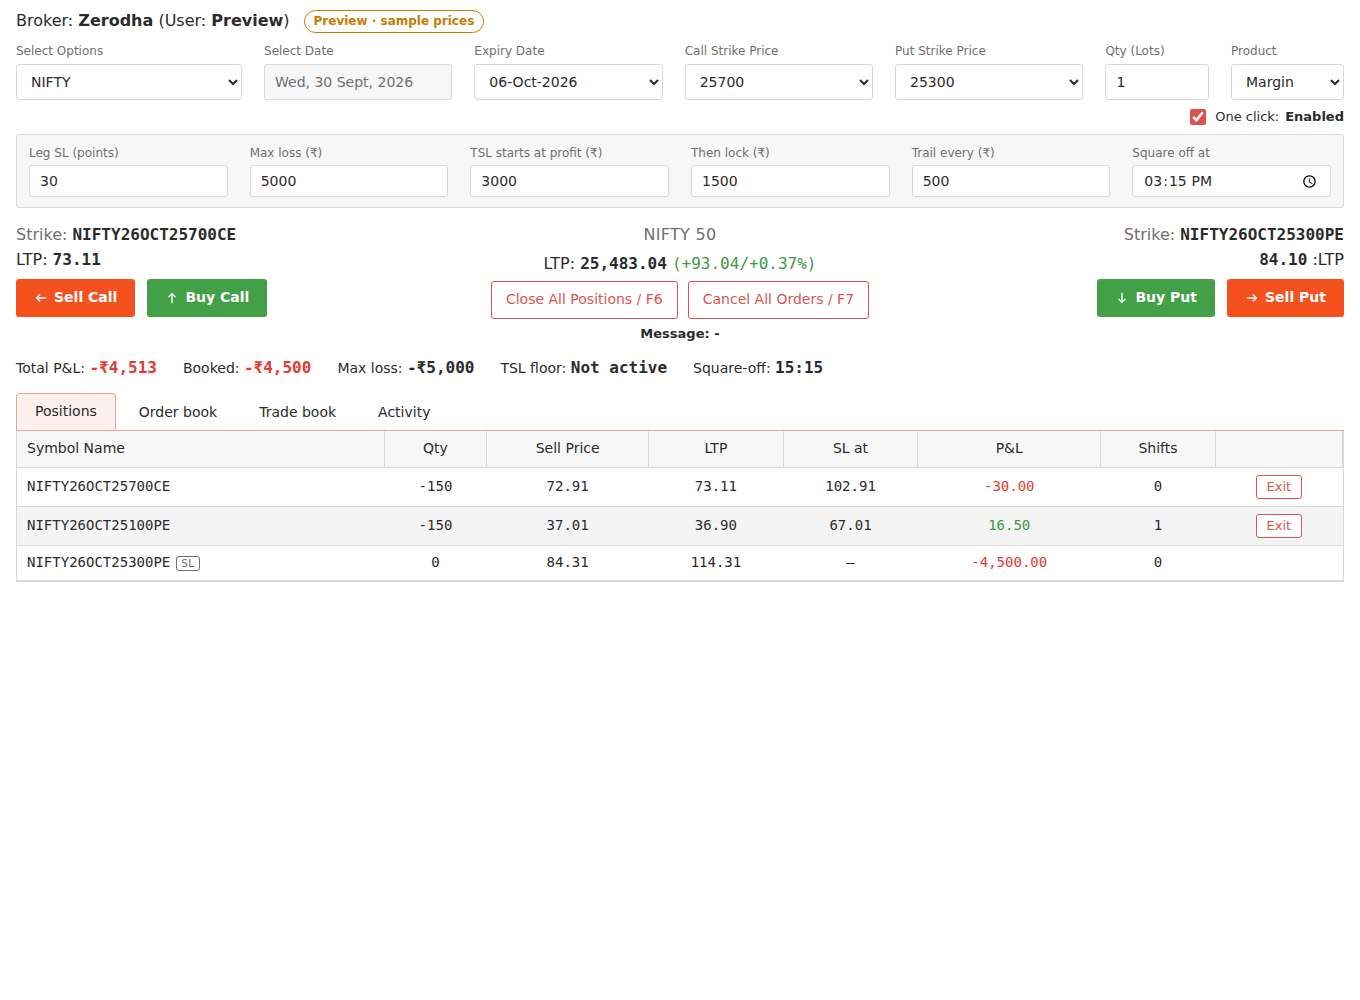
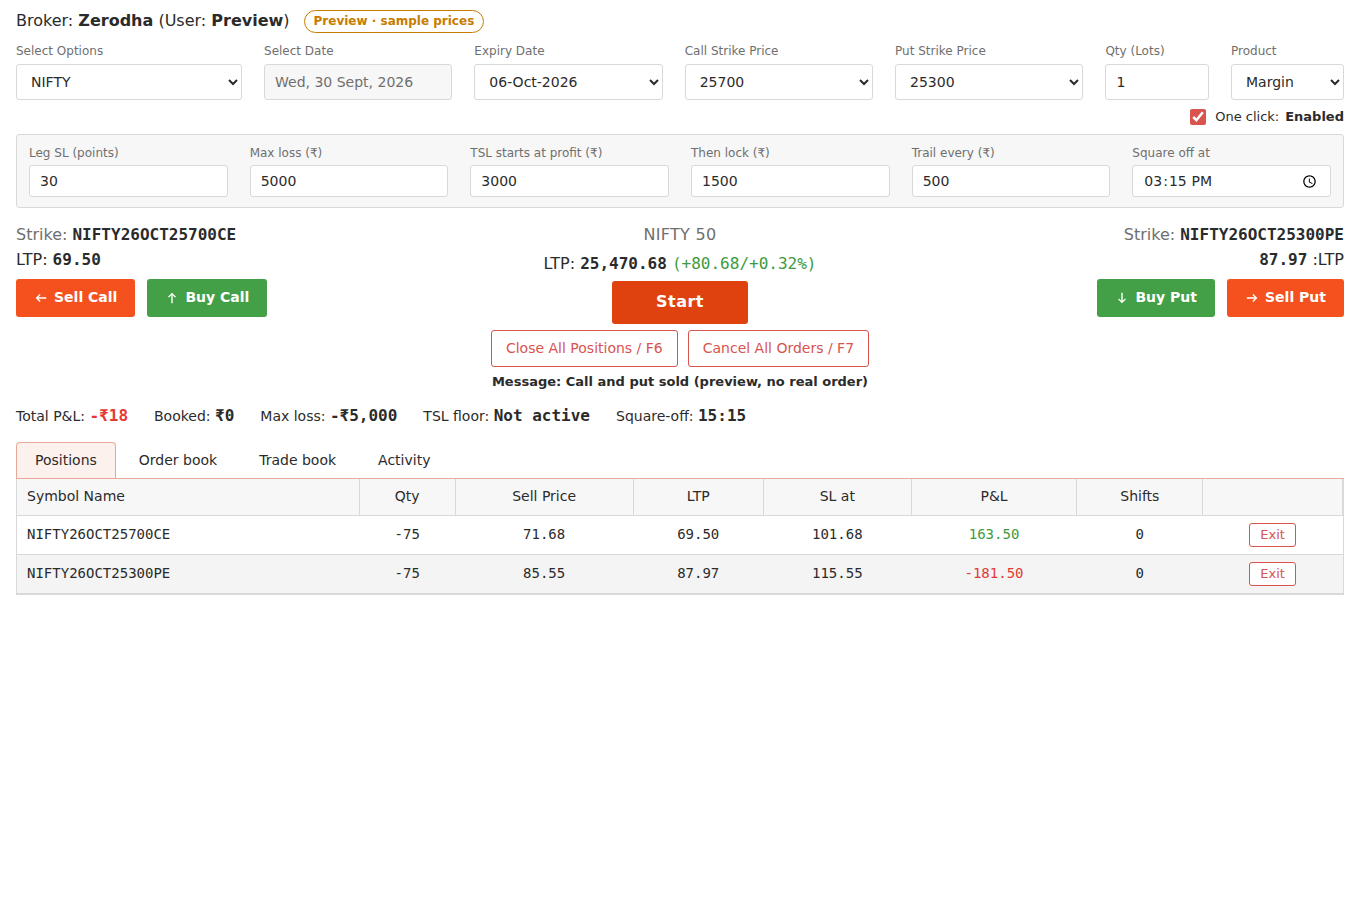
Add Start button that sells the selected call and put together
Both strikes are checked before any order, so a bad strike never leaves
a single leg sold.

Claude-Session: https://claude.ai/code/session_01ME9hcg2Eyey3AhrZwX4625

diff --git a/app/static/index.html b/app/static/index.html
@@ -96,6 +96,8 @@ button { cursor: pointer; }
 .center .idx { font-size: 16px; }
 .center .idx b { font-weight: 700; }
 .outline-btns { display: flex; gap: 10px; flex-wrap: wrap; justify-content: center; }
+.start { border: 0; border-radius: 3px; background: var(--sell); color: #fff; font-weight: 700; font-size: 16px; letter-spacing: .03em; padding: 10px 44px; }
+.start:hover { background: var(--sell-hover); }
 .obtn { background: var(--bg); border: 1px solid var(--outline); color: var(--outline); border-radius: 3px; padding: 8px 14px; }
 .obtn:hover { background: var(--tab-bg); }
 .message { font-size: 13px; font-weight: 600; }
@@ -175,6 +177,7 @@ td.l, th.l { text-align: left; }
   <div class="center">
     <div class="name" id="idx-name">NIFTY 50</div>
     <div class="idx">LTP: <b class="num" id="idx-ltp">–</b> <span class="num" id="idx-chg"></span></div>
+    <button type="button" class="start" id="start">Start</button>
     <div class="outline-btns">
       <button type="button" class="obtn" id="close-all">Close All Positions / F6</button>
       <button type="button" class="obtn" id="cancel-all">Cancel All Orders / F7</button>
@@ -329,7 +332,7 @@ td.l, th.l { text-align: left; }
     } else {
       rows = (t?.log || []).slice().reverse().map((e) => `<tr><td class="num">${e.time}</td><td class="l ${e.level === "error" ? "log-err" : ""}">${e.message}</td></tr>`).join("");
     }
-    const empty = { positions: "No positions yet. Pick strikes above and press Sell Call or Sell Put.", orders: "No orders today.", trades: "No trades today.", log: "Orders and rule triggers will appear here." }[tab];
+    const empty = { positions: "No positions yet. Pick the call and put strikes above and press Start.", orders: "No orders today.", trades: "No trades today.", log: "Orders and rule triggers will appear here." }[tab];
     $("tbody").innerHTML = rows || `<tr class="empty"><td colspan="${HEADS[tab].length}">${empty}</td></tr>`;
   }
 
@@ -360,6 +363,7 @@ td.l, th.l { text-align: left; }
 
   // ---------- actions ----------
   const ACTIONS = {
+    "start": { label: () => `Sell ${$("lots").value} lot(s) ${symbol("CE")} and ${symbol("PE")} at market`, run: () => source.startTrade(Number($("ce-strike").value), Number($("pe-strike").value)) },
     "sell-ce": { label: () => `Sell ${$("lots").value} lot(s) ${symbol("CE")} at market`, run: () => source.sell("CE", Number($("ce-strike").value)) },
     "sell-pe": { label: () => `Sell ${$("lots").value} lot(s) ${symbol("PE")} at market`, run: () => source.sell("PE", Number($("pe-strike").value)) },
     "buy-ce": { label: () => "Buy back all open short calls at market", run: () => source.buy("CE") },
@@ -373,7 +377,7 @@ td.l, th.l { text-align: left; }
     catch (err) { setMessage(err.message, true); }
   }
   function request(id) {
-    if (id.startsWith("sell")) {
+    if (id.startsWith("sell") || id === "start") {
       const r = risk();
       if (!(r.lots >= 1)) return setMessage("Enter Qty (Lots) of at least 1.", true);
       if (!(r.leg_sl_points > 0)) return setMessage("Enter a leg SL in points.", true);
@@ -425,6 +429,7 @@ td.l, th.l { text-align: left; }
     watch() { return this.json("/api/watch", { method: "POST", body: JSON.stringify({ underlying: view.underlying, expiry: view.expiry }) }); },
     async after(trade) { view.trade = trade; renderTrade(); this.refreshBooks(); },
     async sell(type, strike) { await this.after(await this.json("/api/sell", { method: "POST", body: JSON.stringify({ ...risk(), type, strike }) })); return "Order executed"; },
+    async startTrade(ce_strike, pe_strike) { await this.after(await this.json("/api/start", { method: "POST", body: JSON.stringify({ ...risk(), ce_strike, pe_strike }) })); return "Call and put sold"; },
     async buy(type) { await this.after(await this.json("/api/buy", { method: "POST", body: JSON.stringify({ type }) })); return "Bought back"; },
     async closeAll() { await this.after(await this.json("/api/close-all", { method: "POST" })); return "All positions closed"; },
     async cancelAll() { const r = await this.json("/api/cancel-all", { method: "POST" }); this.refreshBooks(); return `${r.cancelled} pending order(s) cancelled`; },
@@ -547,6 +552,11 @@ td.l, th.l { text-align: left; }
         if (trade && trade.status === "running" && trade.params.underlying !== view.underlying) throw new Error(`A ${trade.params.underlying} trade is running. Close it before switching.`);
         ensureTrade(); sellLeg(type, strike, risk().lots * cfg[view.underlying].lot, 0); renderTrade();
         return "Order executed (preview, no real order)";
+      },
+      async startTrade(ce, pe) {
+        await this.sell("CE", ce);
+        await this.sell("PE", pe);
+        return "Call and put sold (preview, no real order)";
       },
       async buy(type) {
         const legs = trade?.legs.filter((l) => l.status === "open" && l.type === type) || [];

diff --git a/app/engine.py b/app/engine.py
@@ -129,6 +129,17 @@ class Engine:
             self._save()
             return self.trade
 
+    def start(self, p: TradeParams, ce_strike: float, pe_strike: float) -> Trade:
+        """Start button: sell the selected call and put together."""
+        with self.lock:
+            # Check both strikes before placing anything, so a typo can't leave a single leg sold.
+            contracts = self.chain_contracts(p.underlying, p.expiry) if p.underlying in UNDERLYINGS else {}
+            for strike, typ in ((ce_strike, "CE"), (pe_strike, "PE")):
+                if (float(strike), typ) not in contracts:
+                    raise ValueError(f"{p.underlying} {strike:g} {typ} is not listed for {p.expiry}.")
+            self.sell(p, "CE", ce_strike)
+            return self.sell(p, "PE", pe_strike)
+
     def buy(self, typ: str) -> None:
         """Buy Call / Buy Put: buy back every open short leg of that type."""
         with self.lock:

diff --git a/tests/test_api.py b/tests/test_api.py
@@ -27,3 +27,12 @@ def test_order_book(tmp_path, monkeypatch):
     client = TestClient(create_app(FakeBroker()))
     assert client.get("/api/orders").json() == []
     assert client.get("/api/trades").json() == []
+
+
+def test_start_button(tmp_path, monkeypatch):
+    monkeypatch.setattr(settings, "state_file", str(tmp_path / "s.json"))
+    client = TestClient(create_app(FakeBroker()))
+    r = client.post("/api/start", json={"underlying": "NIFTY", "expiry": "2026-10-06", "lots": 1, "leg_sl_points": 30,
+                                        "max_loss": 5000, "square_off": "23:59", "ce_strike": 26000, "pe_strike": 25000})
+    assert r.status_code == 200, r.text
+    assert [l["type"] for l in r.json()["legs"]] == ["CE", "PE"]

diff --git a/app/main.py b/app/main.py
@@ -38,6 +38,11 @@ class SellIn(Risk):
     strike: float
 
 
+class StartIn(Risk):
+    ce_strike: float
+    pe_strike: float
+
+
 class BuyIn(BaseModel):
     type: str
 
@@ -165,6 +170,12 @@ def create_app(broker=None) -> FastAPI:
     def sell(body: SellIn) -> dict:
         risk = TradeParams(**body.model_dump(exclude={"type", "strike"}))
         guarded(engine.sell, risk, body.type, body.strike)
+        return engine.snapshot()
+
+    @app.post("/api/start")
+    def start(body: StartIn) -> dict:
+        risk = TradeParams(**body.model_dump(exclude={"ce_strike", "pe_strike"}))
+        guarded(engine.start, risk, body.ce_strike, body.pe_strike)
         return engine.snapshot()
 
     @app.post("/api/buy")

diff --git a/tests/test_engine.py b/tests/test_engine.py
@@ -173,3 +173,16 @@ def test_leg_closed_in_kite_is_not_bought_again(env):
     assert len(buys) == 1
     assert e.trade.legs[0].exit_reason == "Closed outside app"
     assert e.trade.status == "closed"
+
+
+def test_start_sells_both_selected_strikes(env):
+    b, e, _ = env
+    e.start(params(lots=3), 26000, 25000)
+    assert b.placed == [("SELL", "NIFTY26OCT26000CE", 225), ("SELL", "NIFTY26OCT25000PE", 225)]
+
+
+def test_start_places_nothing_if_a_strike_is_not_listed(env):
+    b, e, _ = env
+    with pytest.raises(ValueError, match="25010 PE is not listed"):
+        e.start(params(), 26000, 25010)
+    assert b.placed == []

diff --git a/README.md b/README.md
@@ -6,6 +6,7 @@ A single web page for selling NIFTY and SENSEX options through Zerodha, with the
 
 ## What it does
 
+- **Start:** sells the selected call and put strikes together with your qty, at market.
 - **Sell Call / Sell Put:** one click sells the chosen strike at market (qty in lots, Margin or Intraday product).
 - **Buy Call / Buy Put:** buys back all your open short calls or puts.
 - **Close All Positions (F6)** and **Cancel All Orders (F7)**.
